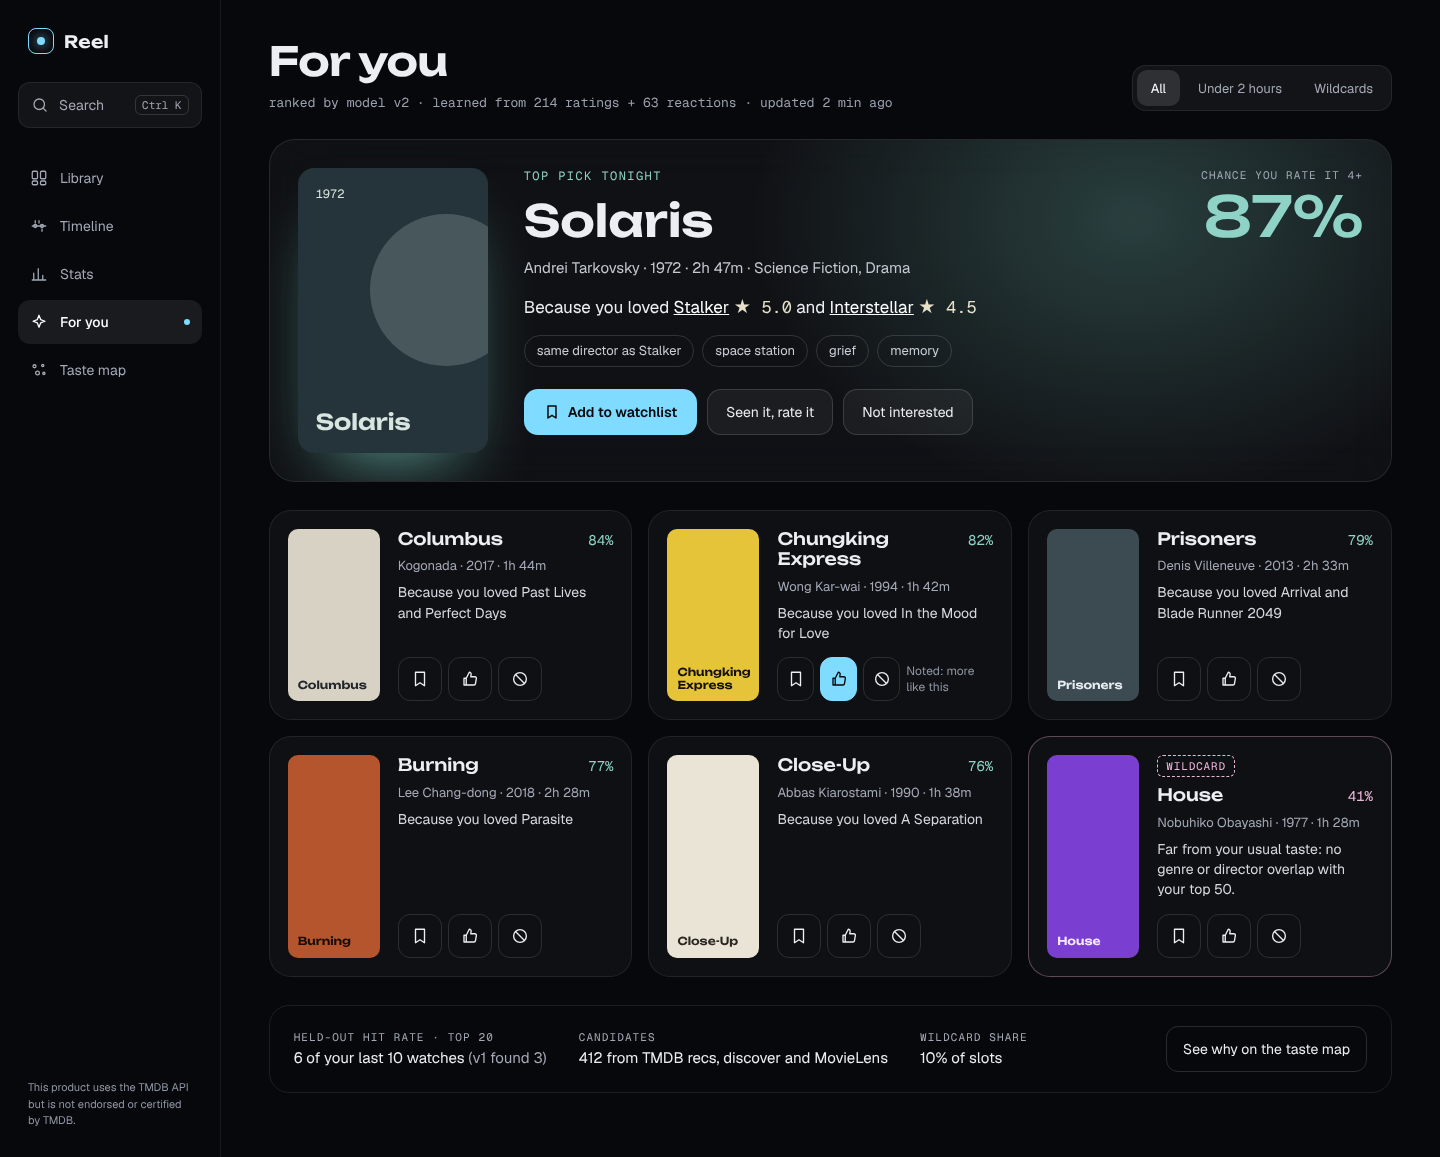
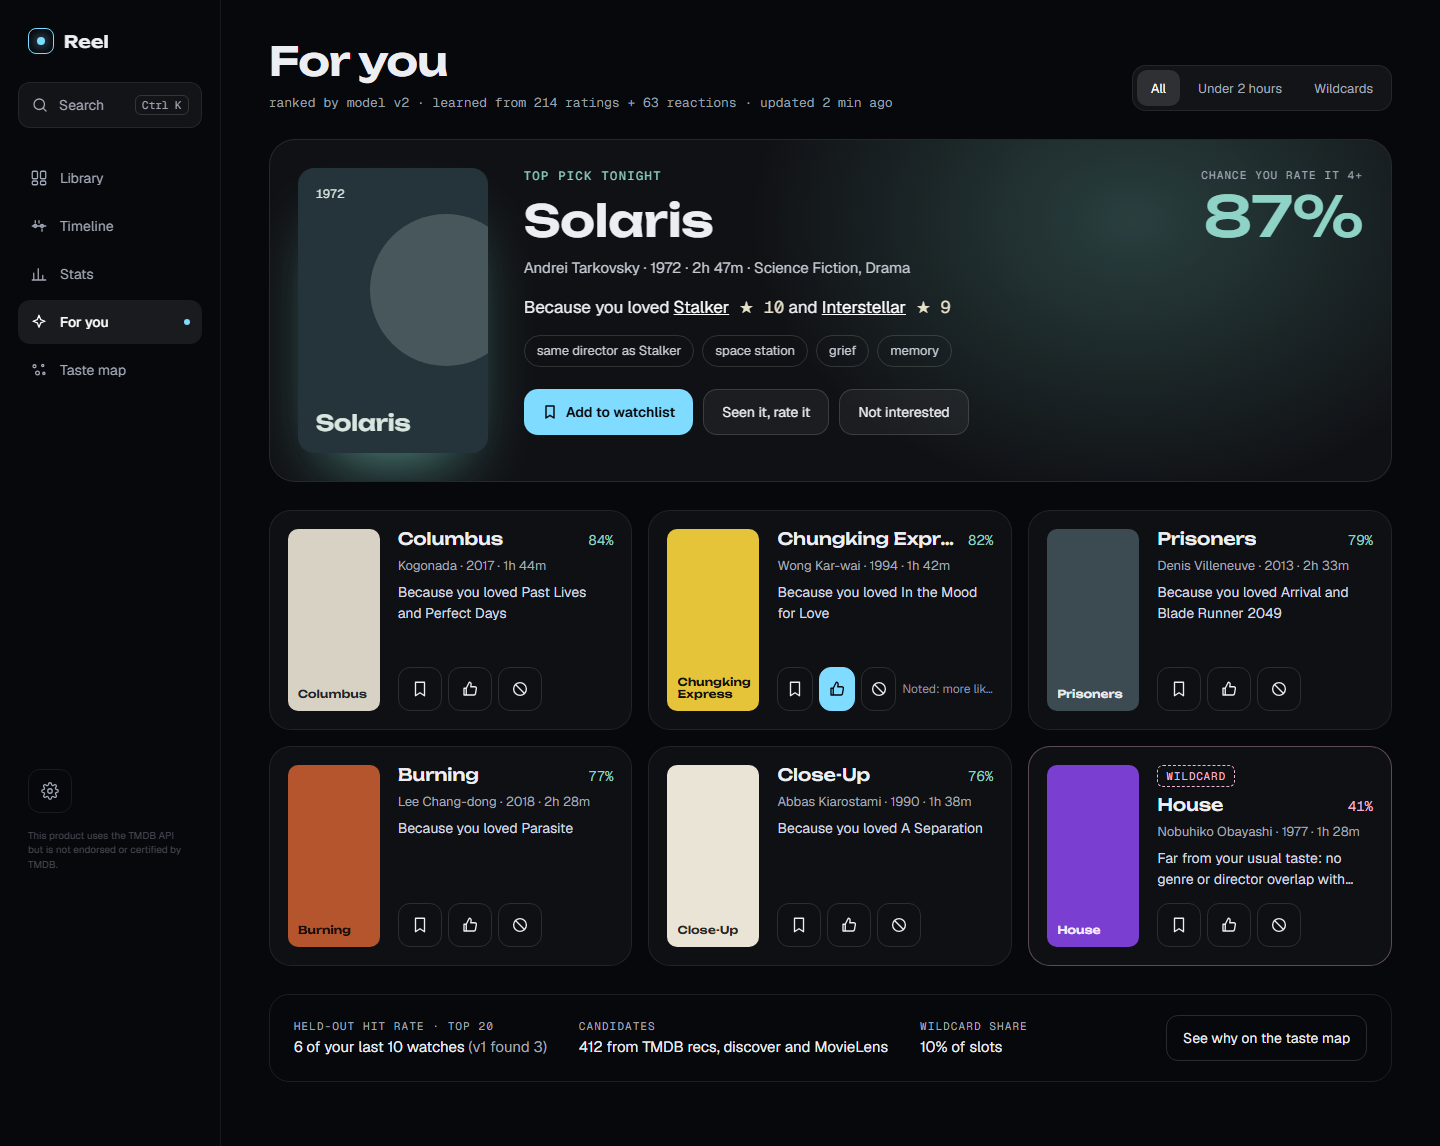
Movie For you: even cards, like the shows page; updated the For you design reference
Title and director line truncate (hover shows them in full), the reason is at most two lines,
the status note doesn't wrap, and every grid row is the same height. design/screenshots/
ForYou-desktop.png re-rendered to match, at the owner's request (the old reference wrapped
long titles and reasons).

diff --git a/frontend/src/pages/ForYou.tsx b/frontend/src/pages/ForYou.tsx
@@ -139,14 +139,15 @@ function RecCard({ rec }: { rec: Rec }) {
       </Link>
       <div className="flex-1 min-w-0 flex flex-col gap-2">
         {wild && <span className="self-start font-mono text-[11px] tracking-[0.08em] px-2 py-[3px] rounded-[6px] border border-dashed border-wild text-wild">WILDCARD</span>}
-        <div className="flex justify-between items-baseline gap-[10px]">
-          <h3 className="m-0 font-display font-medium text-[17px] leading-[1.2]">
+        <div className="flex justify-between items-baseline gap-[10px] min-w-0">
+          <h3 className="m-0 min-w-0 truncate font-display font-medium text-[17px] leading-[1.2]">
             <Link to={`/film/${rec.tmdb_id}?from=recs`} className="no-underline">{rec.title}</Link>
           </h3>
-          <span className="font-mono text-[14px]" style={{ color: wild ? "var(--color-wild)" : "var(--color-score)" }}>{pct(rec.score)}</span>
+          <span className="shrink-0 font-mono text-[14px]" style={{ color: wild ? "var(--color-wild)" : "var(--color-score)" }}>{pct(rec.score)}</span>
         </div>
-        <span className="text-[13px] text-ink-3">{[rec.director, rec.year, runtime(rec.runtime)].filter(Boolean).join(" · ")}</span>
-        <p className="m-0 text-[14px] leading-[1.45] text-ink-body">{why}</p>
+        <span className="truncate text-[13px] text-ink-3">{[rec.director, rec.year, runtime(rec.runtime)].filter(Boolean).join(" · ")}</span>
+        {/* at most two lines, so a long reason can't make one card taller than the rest */}
+        <p className="m-0 line-clamp-2 text-[14px] leading-[1.45] text-ink-body">{why}</p>
         <div className="flex gap-[6px] mt-auto pt-[6px]">
           <IconButton shrink label={saved ? "On your watchlist" : "Add to watchlist"} on={saved} onClick={() => !saved && save()}>
             <IconBookmark size={18} />
@@ -157,7 +158,7 @@ function RecCard({ rec }: { rec: Rec }) {
           <IconButton shrink label="Not interested" aria-pressed={reaction === "not_interested"} onClick={() => toggle("not_interested")}>
             <IconNotInterested size={18} />
           </IconButton>
-          <span className="ml-auto self-center text-[12px] text-ink-4">{status}</span>
+          <span className="ml-auto self-center min-w-0 truncate text-[12px] text-ink-4">{status}</span>
         </div>
       </div>
     </article>
@@ -248,7 +249,7 @@ export default function ForYou() {
       )}
       {data?.top && <TopPick key={data.top.tmdb_id} rec={data.top} />}
       {data && data.items.length > 0 && (
-        <div className="grid grid-cols-[repeat(auto-fill,minmax(min(340px,100%),1fr))] gap-4">
+        <div className="grid grid-cols-[repeat(auto-fill,minmax(min(340px,100%),1fr))] auto-rows-fr gap-4">
           {data.items.map((r) => <RecCard key={r.tmdb_id} rec={r} />)}
         </div>
       )}
